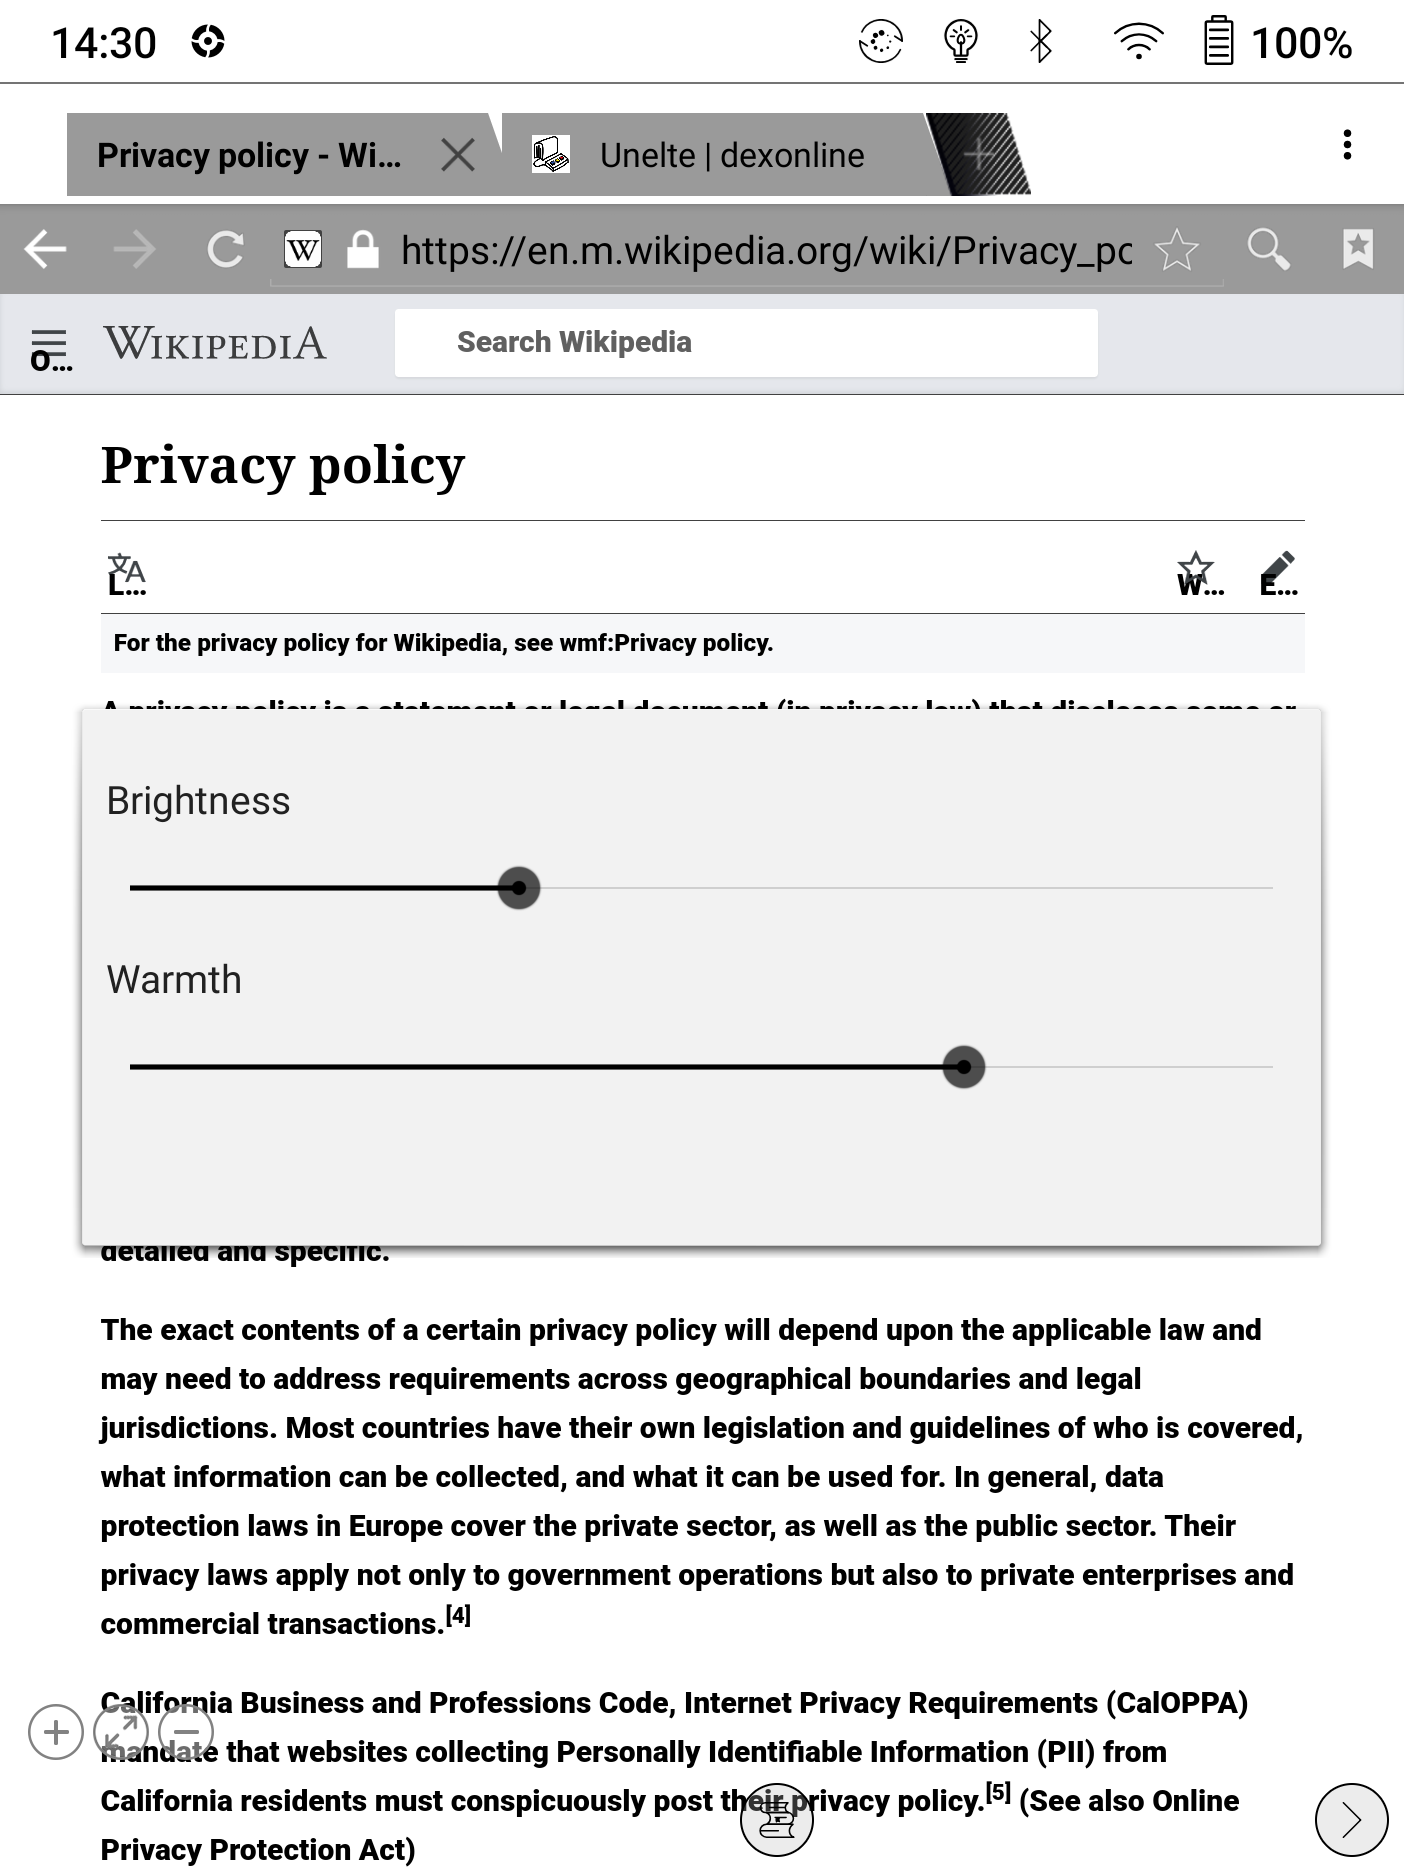
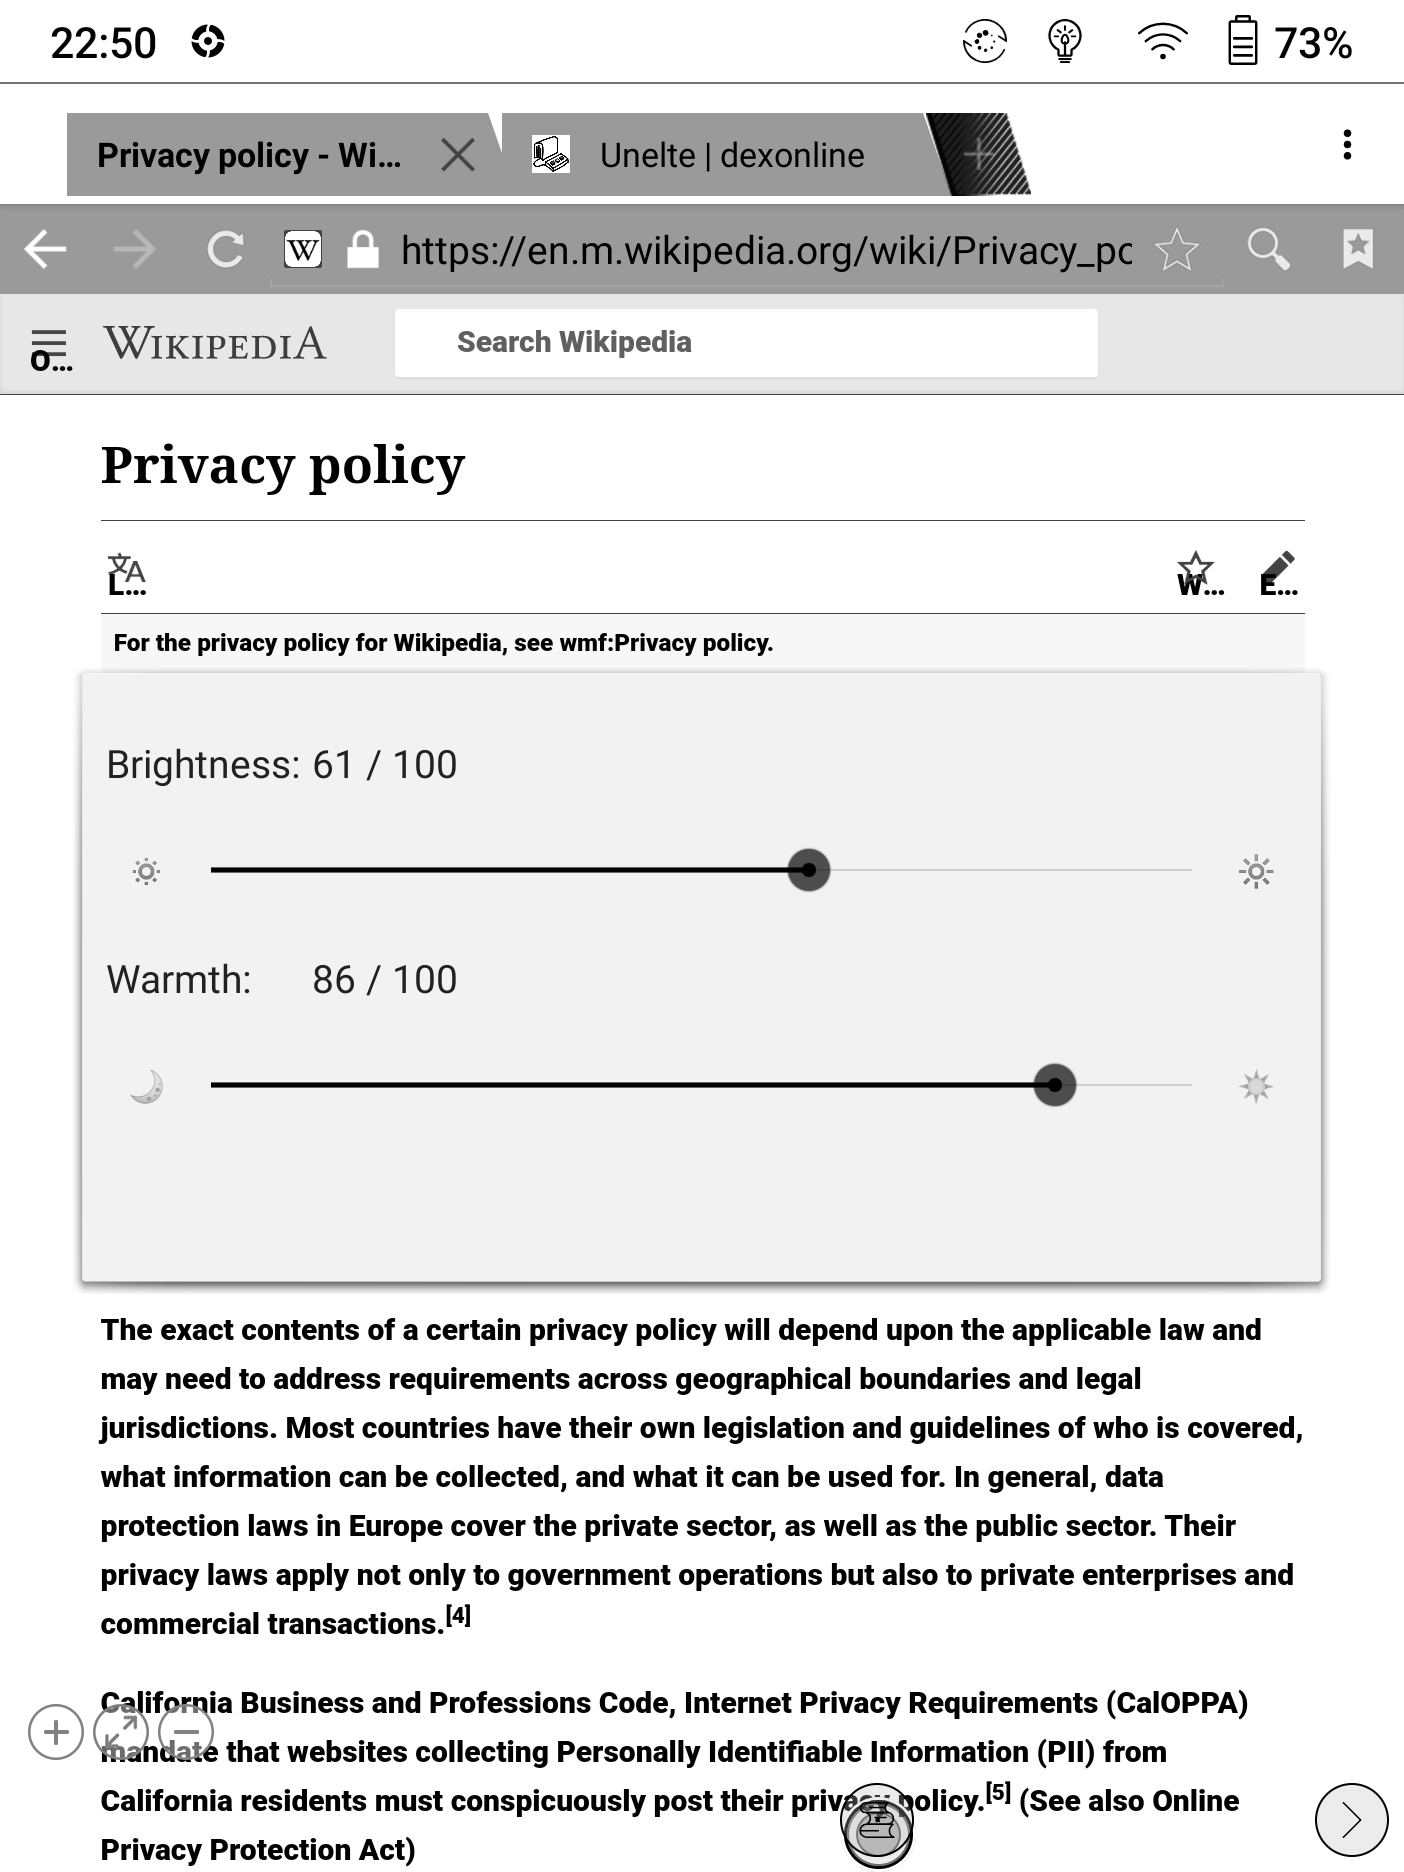
increase / decrease buttons

diff --git a/app/src/main/java/com/onyx/darie/calin/gentleglowonyxboox/FrontLightWarmthBrightnessDialog.java b/app/src/main/java/com/onyx/darie/calin/gentleglowonyxboox/FrontLightWarmthBrightnessDialog.java
@@ -2,6 +2,8 @@ package com.onyx.darie.calin.gentleglowonyxboox;
 
 import android.app.Activity;
 import android.os.Bundle;
+import android.view.View;
+import android.widget.Button;
 import android.widget.SeekBar;
 import android.widget.TextView;
 
@@ -9,6 +11,7 @@ import com.onyx.android.sdk.api.device.FrontLightController;
 
 import butterknife.Bind;
 import butterknife.ButterKnife;
+import butterknife.OnClick;
 
 public class FrontLightWarmthBrightnessDialog extends Activity {
     private class WarmColdSetting {
@@ -105,6 +108,18 @@ public class FrontLightWarmthBrightnessDialog extends Activity {
     @Bind(R.id.brightness_value_label)
     TextView brightnessValue;
 
+    @Bind(R.id.decrease_brightness_by_1)
+    Button decreaseBrightnessButton;
+
+    @Bind(R.id.increase_brightness_by_1)
+    Button increaseBrightnessButton;
+
+    @Bind(R.id.decrease_warmth_by_1)
+    Button decreaseWarmthButton;
+
+    @Bind(R.id.increase_warmth_by_1)
+    Button increaseWarmthButton;
+
     private WarmthBrightnessSetting warmthBrightnessSetting;
 
     WarmColdToWarmthBrightnessAdapter adapter;
@@ -166,6 +181,32 @@ public class FrontLightWarmthBrightnessDialog extends Activity {
             }
         });
 
+        decreaseBrightnessButton.setOnClickListener(new View.OnClickListener(){
+            @Override
+            public void onClick(View v) {
+                decreaseBrightness();
+            }
+        });
+        increaseBrightnessButton.setOnClickListener(new View.OnClickListener(){
+            @Override
+            public void onClick(View v) {
+                increaseBrightness();
+            }
+        });
+
+        decreaseWarmthButton.setOnClickListener(new View.OnClickListener(){
+            @Override
+            public void onClick(View v) {
+                decreaseWarmth();
+            }
+        });
+        increaseWarmthButton.setOnClickListener(new View.OnClickListener(){
+            @Override
+            public void onClick(View v) {
+                increaseWarmth();
+            }
+        });
+
         updateValues();
     }
 
@@ -199,5 +240,27 @@ public class FrontLightWarmthBrightnessDialog extends Activity {
     private void setWarmBrightness(int brightness) {
         FrontLightController.setWarmLightDeviceValue(this, brightness);
         updateValues();
+    }
+
+    public void decreaseBrightness() {
+        if (warmthBrightnessSetting.brightness > 0) {
+            brightness.setProgress(warmthBrightnessSetting.brightness - 1);
+        }
+    }
+    public void increaseBrightness() {
+        if (warmthBrightnessSetting.brightness < 100) {
+            brightness.setProgress(warmthBrightnessSetting.brightness + 1);
+        }
+    }
+
+    public void decreaseWarmth() {
+        if (warmthBrightnessSetting.warmth > 0) {
+            warmth.setProgress(warmthBrightnessSetting.warmth - 1);
+        }
+    }
+    public void increaseWarmth() {
+        if (warmthBrightnessSetting.warmth < 100) {
+            warmth.setProgress(warmthBrightnessSetting.warmth + 1);
+        }
     }
 }
